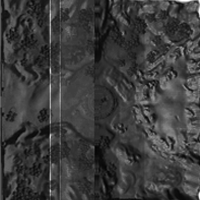
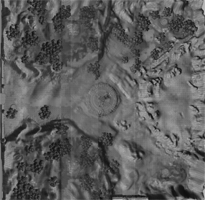
Improved heat map (mini map) image.  Heat map overlay opacity reduced.

diff --git a/heatmap/heatmap.html b/heatmap/heatmap.html
@@ -52,7 +52,7 @@
     (function() {
         var heatmap = h337.create({
                 container: document.getElementById("heatmap"),
-                maxOpacity: .6,
+                maxOpacity: .3,
                 radius: 30,
                 blur: .990,
                 // backgroundColor with alpha so you can see through it
